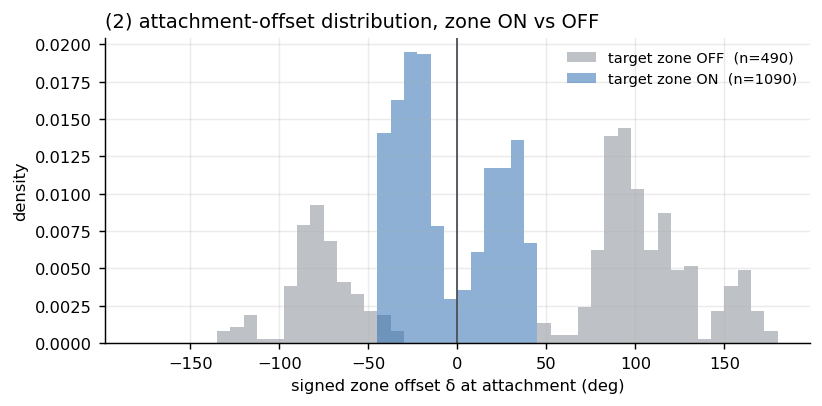
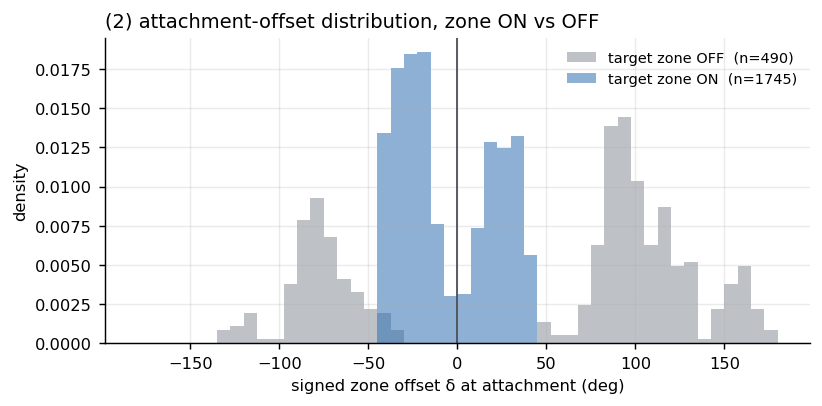
analysis(twirling): driving-relation regression + limitations section
Adds the offset -> angular-impulse regression. The instantaneous torque at the binding step
is measured before the bond has developed its restoring strain, so its sign is not the sign
that drives rotation; the angular impulse integrated over the whole attachment is, so that
is the regression the causal claim rests on.

diff --git a/ANALYSIS/vilfan_target_zone/analyze_target_zone.py b/ANALYSIS/vilfan_target_zone/analyze_target_zone.py
@@ -182,6 +182,41 @@ def fig_delta_torque(events):
     save(fig, "fig08_delta_to_torque.png")
 
 
+def fig_delta_impulse(events):
+    """The DRIVING relation: angular impulse accumulated over the whole attachment vs the offset at capture.
+
+    The instantaneous torque at the binding step (fig08) is measured before the bond has developed its
+    restoring strain, so its sign is not the sign that drives rotation. The angular impulse integrated over
+    the attachment IS the quantity that turns the filament, so this is the regression the causal claim rests
+    on. A restoring bond gives impulse ~ -delta.
+    """
+    for tag, sub in (("native", "mir+1"), ("mirror", "mir-1")):
+        keys = [k for k in events if "zoneon" in k and sub in k]
+        if not keys:
+            continue
+        d = np.degrees([float(r["delta_rad"]) for k in keys for r in events[k]])
+        j = np.array([float(r["impulse_Nms"]) for k in keys for r in events[k]])
+        ok = np.isfinite(d) & np.isfinite(j)
+        if ok.sum() < 10:
+            continue
+        d, j = d[ok], j[ok]
+        fig, ax = plt.subplots(figsize=(5.2, 3.4))
+        ax.scatter(d, j, s=8, color=C_ON if tag == "native" else C_MIR, alpha=0.5)
+        k = np.polyfit(d, j, 1)
+        xs = np.linspace(d.min(), d.max(), 30)
+        r = np.corrcoef(d, j)[0, 1]
+        ax.plot(xs, np.polyval(k, xs), color=C_NEU, lw=1.5,
+                label=f"slope {k[0]:+.3e} N·m·s/deg\nr = {r:+.3f},  n = {d.size}")
+        ax.axhline(0, color=C_NEU, lw=0.8); ax.axvline(0, color=C_NEU, lw=0.8)
+        ax.set_xlabel("signed zone offset δ at capture (deg)")
+        ax.set_ylabel("angular impulse over the attachment (N·m·s)")
+        ax.set_title(f"the driving relation: offset → angular impulse ({tag} lattice)", loc="left")
+        ax.legend(frameon=False, fontsize=8)
+        save(fig, f"fig10_delta_to_impulse_{tag}.png")
+        print(f"    [{tag}] impulse-vs-delta slope {k[0]:+.4e} N·m·s/deg, r = {r:+.4f}, "
+              f"mean delta {d.mean():+.4f} deg, mean impulse {j.mean():+.4e} N·m·s")
+
+
 def fig_zone_centre(events):
     """diagnostic: is the zone centre the substrate-facing direction, over real attachments?"""
     keys = [k for k in events if "zoneon" in k]
@@ -362,7 +397,7 @@ def main():
     tidy(sens, "tidy_sensitivity.csv")
     if ev:
         fig_zone_coordinate(ev); fig_offset_hist(ev); fig_native_mirror_hist(ev)
-        fig_delta_torque(ev); fig_zone_centre(ev)
+        fig_delta_torque(ev); fig_delta_impulse(ev); fig_zone_centre(ev)
     if camp:
         fig_summary_bars(camp); fig_covariation(camp); fig_azimuth(camp)
     if lad:

diff --git a/docs/twirling/vilfan_target_zone/TARGET_ZONE_BUILD_AND_VALIDATION.md b/docs/twirling/vilfan_target_zone/TARGET_ZONE_BUILD_AND_VALIDATION.md
@@ -492,7 +492,47 @@ bit-identical to the global switch), **the default-off claim is verified rather 
 
 ## 13. Limitations
 
-[RESULTS PENDING]
+**Design / physics**
+
+1. **The primary lattice is an idealization of the site ORDERING.** Actin 13/6 advances −166.5° per monomer,
+   so consecutive monomers are near-antipodal and the azimuths of one repeat are visited in scrambled order.
+   The mode-6 fixture keeps actin's real quantization (360/13), rise (2.7 nm) and repeat (35.1 nm) but visits
+   those azimuths monotonically. This is what makes "passage through a target zone" well posed; it is
+   **not** actin's true lattice. The faithful native 13/6 lattice is run alongside it in §9.
+2. **The target zone is a hard admissibility rule, not a graded hazard.** This was the conservative choice
+   (it adds no rate and no tunable parameter that could manufacture a bias), but it means the smooth
+   attachment-rate profile of the published mechanism is not represented; the prior increment's
+   `exp(−½αΔψ²)` hazard is the graded alternative and is held OFF here.
+3. **No axial site search beyond the existing ±3-site window**, and site selection among accessible sites is
+   still nearest-in-3D. Axial-compliance-assisted selection of a better-registered site is not represented.
+4. **The lawn is a narrow strip** (2.00 × 0.010 µm). With mechanical Brownian motion off there is no thermal
+   search, so only motors whose relaxed deterministic pose already reaches the filament can ever engage; a
+   full-width lawn spends ~95 % of the CPU on motors that can never bind. The strip changes no physics, no
+   density and no rate, but it does mean the *transverse* disorder of a real coverslip is not sampled.
+5. **One filament, one length, one motor model, one viscosity, one dt.** No dt-convergence study was run for
+   the new gate. The prior increment's dt study (its §15) showed the *thermalized* phase-coherence ratio
+   worsens at finer dt; that finding is about the Brownian assay and does not transfer to this deterministic
+   fixture, which has no thermal phase noise at all.
+6. **The rigid single-rod filament** removes bending and tumbling entirely. That is deliberate (it is one of
+   the task's favourable assumptions) but it also removes any coupling between roll and bending modes.
+7. **Head rotational DOF and the bound orientational registry are OFF.** The only torque channel is the
+   off-axis F8 bond at `Ractin`. A registry spring would add a second, independent channel.
+
+**Scope / validation**
+
+8. **CPU only; no device equivalence for the new gate.** The modified kernels compile for both runners and
+   both `siteSnap` call sites were updated together, but no GPU execution was performed, so CPU/GPU
+   equivalence of the accessibility gate is **untested**. It must be established before any device-resident
+   production use — the project's policy triggers a CPU/GPU check for exactly this case (a changed hot
+   kernel).
+9. **The literal zero-chirality null (F1/F2) fails**, because switching the target zone off leaves a helical
+   lattice and off-axis attachment in place. The achiral control (F3/F4) is what isolates fixture bias, and
+   it passes. Readers should take F3/F4, not F1/F2, as the statement that the fixture is unbiased.
+10. **`A_TZ` is drift-referenced and therefore mirror-invariant by construction** (§8.2). The handedness is
+    carried by `⟨δ⟩`, `⟨τ⟩` and `Ω`. This differs from a naive reading of the success criteria and is
+    reported explicitly rather than silently.
+11. **No claim is made about the biological twirling pitch.** The zone width came from the literature target
+    zone geometry, not from pitch agreement, and was never tuned toward an experimental value.
 
 ## 14. Stage 7 — behaviour-restoration infrastructure (prepared, NOT executed as a study)
 
